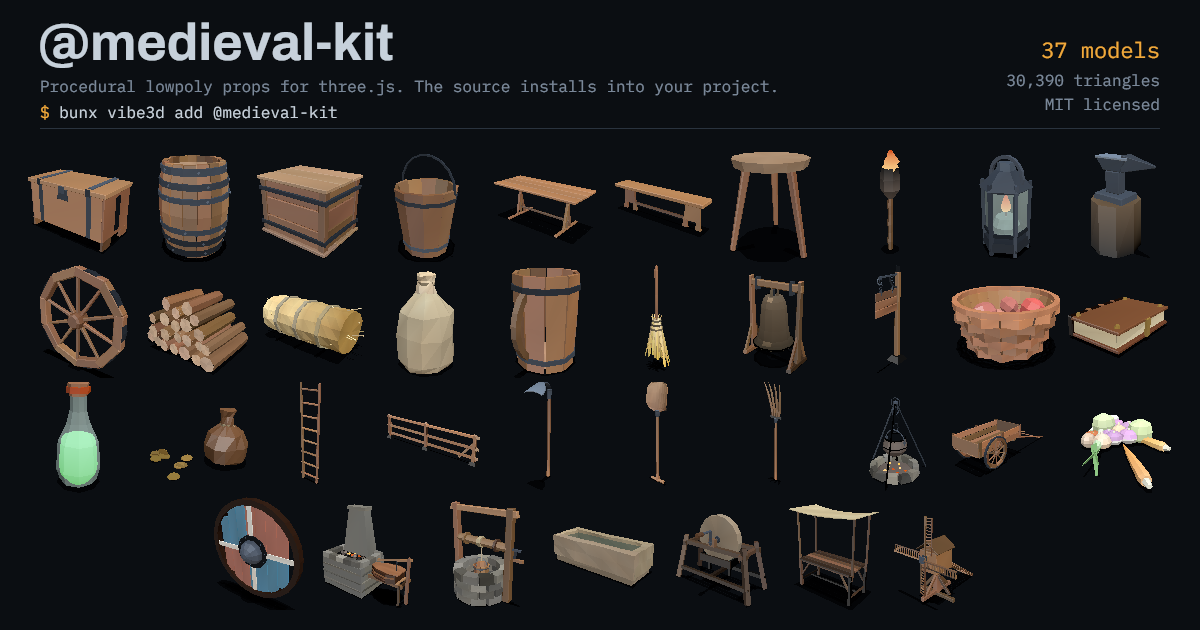
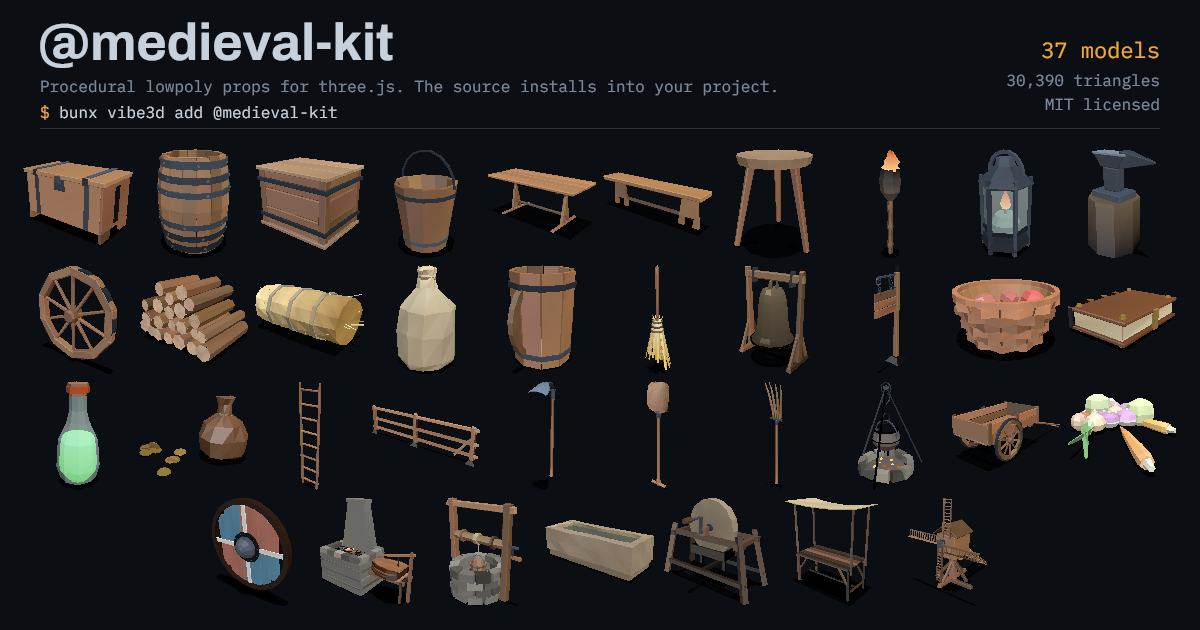
Aim the render camera at the picture's centre, include the contact shadow in the fit, and shoot the kit scene from the front.

diff --git a/scripts/raster.ts b/scripts/raster.ts
@@ -364,15 +364,16 @@ export function encodePng(frame: Frame): Uint8Array {
 /* ------------------------------------------------------------------ framing */
 
 /** Camera that fits the model into frame. Same framing as in the viewer. */
-function frameCamera(root: Object3D, width: number, height: number): { camera: PerspectiveCamera; floor: number } {
+function frameCamera(
+  root: Object3D,
+  width: number,
+  height: number,
+  towards: readonly [number, number, number],
+): { camera: PerspectiveCamera; floor: number } {
   const box = new Box3().setFromObject(root)
   const sphere = box.getBoundingSphere(new Sphere())
   const camera = new PerspectiveCamera(32, width / height, 0.01, 100)
-  // Three-quarter view: the one angle that shows two faces at once. Looking
-  // straight on hides depth completely. Raising it to look further down was
-  // measured on the whole-kit scene, the one subject with a reason to want it,
-  // and it made the frame emptier at every elevation tried.
-  const direction = new Vector3(0.78, 0.5, 1).normalize()
+  const direction = new Vector3(towards[0], towards[1], towards[2]).normalize()
 
   /**
    * Fit the BOX to the frame, not the sphere to the frame's short side.
@@ -415,6 +416,17 @@ function frameCamera(root: Object3D, width: number, height: number): { camera: P
       points.push(new Vector3().fromBufferAttribute(position, i).applyMatrix4(object.matrixWorld))
     }
   })
+  /**
+   * The contact shadow is part of the picture, so it is part of the fit.
+   *
+   * It is the geometry flattened onto the floor, which projects somewhere else
+   * entirely: a tall model throws its shadow well to one side, past everything
+   * the fit was measuring. Fourteen of the thirty-seven had a shadow running
+   * off the edge of its own cell, which reads as a crop even though no part of
+   * the model was touched.
+   */
+  for (const p of points.slice()) points.push(new Vector3(p.x, box.min.y, p.z))
+
   if (points.length === 0) for (let i = 0; i < 8; i += 1) {
     points.push(new Vector3(
       i & 1 ? box.max.x : box.min.x,
@@ -423,25 +435,59 @@ function frameCamera(root: Object3D, width: number, height: number): { camera: P
     ))
   }
 
-  let distance = (sphere.radius / Math.sin((camera.fov * Math.PI) / 360)) * 1.12
+  /**
+   * Aimed at where the subject LANDS IN THE PICTURE, not at the middle of its
+   * bounding sphere.
+   *
+   * Those are the same point only for something symmetric about its centre.
+   * The whole-kit scene is a low wide plan with one tall mill standing off to
+   * one side, so its sphere centre sits well away from the middle of what you
+   * actually see, and the fit then padded one side to reach it. That is the
+   * margin down the right of the frame: not a fitting error, an aiming one.
+   *
+   * Centring and fitting run in the same loop because each one moves the other:
+   * re-aiming changes what the extremes project to, and pulling in changes
+   * where the centre falls. Four passes settles both inside a pixel here.
+   */
+  const target = sphere.center.clone()
+  const right = new Vector3()
+  const up = new Vector3()
   const at = new Vector3()
+  let distance = (sphere.radius / Math.sin((camera.fov * Math.PI) / 360)) * 1.12
+
   for (let pass = 0; pass < 4; pass += 1) {
-    camera.position.copy(sphere.center).addScaledVector(direction, distance)
-    camera.lookAt(sphere.center)
+    camera.position.copy(target).addScaledVector(direction, distance)
+    camera.lookAt(target)
     camera.updateMatrixWorld(true)
     camera.updateProjectionMatrix()
-    let worst = 0
+
+    let minX = Infinity, maxX = -Infinity, minY = Infinity, maxY = -Infinity
     for (const p of points) {
       at.copy(p).project(camera)
-      worst = Math.max(worst, Math.abs(at.x), Math.abs(at.y))
+      minX = Math.min(minX, at.x); maxX = Math.max(maxX, at.x)
+      minY = Math.min(minY, at.y); maxY = Math.max(maxY, at.y)
     }
+    if (!Number.isFinite(minX)) break
+
+    // Slide the aim point across the image plane by however far off centre the
+    // content sits, in world units at this distance.
+    const halfHeight = Math.tan((camera.fov * Math.PI) / 360) * distance
+    const halfWidth = halfHeight * camera.aspect
+    right.setFromMatrixColumn(camera.matrixWorld, 0)
+    up.setFromMatrixColumn(camera.matrixWorld, 1)
+    target
+      .addScaledVector(right, ((minX + maxX) / 2) * halfWidth)
+      .addScaledVector(up, ((minY + maxY) / 2) * halfHeight)
+
+    // Then fit the half-extent, measured from that centre.
+    const worst = Math.max((maxX - minX) / 2, (maxY - minY) / 2)
     if (worst <= 0) break
     // 0.94 of the frame, so nothing sits on the edge and a shadow has room.
     distance *= worst / 0.94
   }
 
-  camera.position.copy(sphere.center).addScaledVector(direction, distance)
-  camera.lookAt(sphere.center)
+  camera.position.copy(target).addScaledVector(direction, distance)
+  camera.lookAt(target)
   camera.updateMatrixWorld(true)
   camera.updateProjectionMatrix()
   return { camera, floor: box.min.y }
@@ -461,10 +507,20 @@ export interface RenderOptions {
   /** Pre-rotation of the model around the Y axis (radians). For turntables. */
   readonly spin?: number
   readonly ground?: readonly number[]
+  /**
+   * Where the camera sits, as a direction from the subject.
+   *
+   * The default three-quarter view shows two faces of a single object at once,
+   * which is what a catalogue of single objects wants. A SCENE laid out in rows
+   * is a different subject: seen from the corner its rows run diagonally and
+   * two corners of the frame are left empty, so the whole-kit picture is taken
+   * from nearer the front, where the rows read as rows.
+   */
+  readonly towards?: readonly [number, number, number]
 }
 
 export function renderOne(id: string, options: RenderOptions): Frame {
-  const { size, tall = options.size, patch, spin = 0, ground } = options
+  const { size, tall = options.size, patch, spin = 0, ground, towards = [0.78, 0.5, 1] } = options
   const entry = CATALOG[id]
   if (!entry) throw new Error(`not in catalog: ${id}`)
   const built = entry.build()
@@ -477,7 +533,7 @@ export function renderOne(id: string, options: RenderOptions): Frame {
   built.root.rotation.y = spin
   const triangles = collect(built.root)
   const frame = newFrame(size, tall, ground)
-  const { camera, floor } = frameCamera(built.root, size, tall)
+  const { camera, floor } = frameCamera(built.root, size, tall, towards)
   contactShadow(frame, camera, triangles, floor)
   raster(frame, camera, triangles)
   built.dispose()

diff --git a/scripts/render.ts b/scripts/render.ts
@@ -35,6 +35,23 @@ const only = flag('ids')?.split(',')
 const groundHex = flag('ground')
 const ground = groundHex ? toLinear(groundHex) : undefined
 
+/**
+ * Where the camera stands, and why the whole-kit scene gets its own answer.
+ *
+ * A single model wants the three-quarter view: it shows two faces at once,
+ * where straight on hides depth completely. A SCENE of models laid out in rows
+ * is a different subject. From the corner its rows run diagonally across the
+ * frame and leave two corners empty; from nearer the front they read as rows,
+ * and the picture holds a quarter more of the kit at the same size.
+ *
+ * Applied here rather than left to the caller, because the alternative is a
+ * flag someone has to remember on every re-render, and the picture it produces
+ * is the one the README opens with.
+ */
+const towards = flag('towards')?.split(',').map(Number) as [number, number, number] | undefined
+const cameraFor = (id: string): [number, number, number] | undefined =>
+  towards ?? (id === 'kit' ? [0.24, 0.5, 1] : undefined)
+
 await mkdir(outDir, { recursive: true })
 
 function ids0(): string {
@@ -52,7 +69,7 @@ if (angles > 1) {
   const target = one ?? (only?.[0])
   if (!target) throw new Error('--angles needs --one <model> or --ids')
   const frames = Array.from({ length: angles }, (_, i) =>
-    renderOne(target, { size, ground, spin: (i / angles) * Math.PI * 2 }))
+    renderOne(target, { size, ground, towards: cameraFor(target), spin: (i / angles) * Math.PI * 2 }))
   await writeFile(`${outDir}/_turntable.png`, encodePng(tile(frames, size, angles, ground)))
   console.log(`${target} · ${angles} angles → ${outDir}/_turntable.png`)
   process.exit(0)
@@ -63,7 +80,7 @@ if (sweep) {
   const [key, values] = sweep.split('=')
   const list = values!.split('|').map(Number)
   const target = one ?? ids0()
-  const rendered = list.map((value) => renderOne(target, { size, ground, patch: { [key!]: value } }))
+  const rendered = list.map((value) => renderOne(target, { size, ground, towards: cameraFor(target), patch: { [key!]: value } }))
   await writeFile(`${outDir}/_sweep.png`, encodePng(tile(rendered, size, list.length, ground)))
   console.log(`${target} · ${key} = ${list.join(', ')} → ${outDir}/_sweep.png`)
   process.exit(0)
@@ -78,7 +95,7 @@ const ids = one ? [one]
 const frames = new Map<string, Frame>()
 
 for (const id of ids) {
-  const frame = renderOne(id, { size, tall, ground })
+  const frame = renderOne(id, { size, tall, ground, towards: cameraFor(id) })
   frames.set(id, frame)
   await writeFile(`${outDir}/${id}.png`, encodePng(frame))
   console.log(`  ${id}`)
